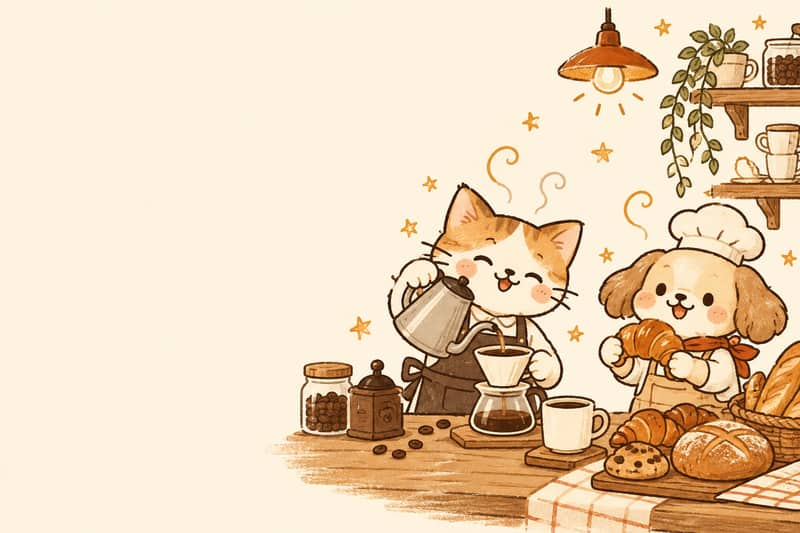
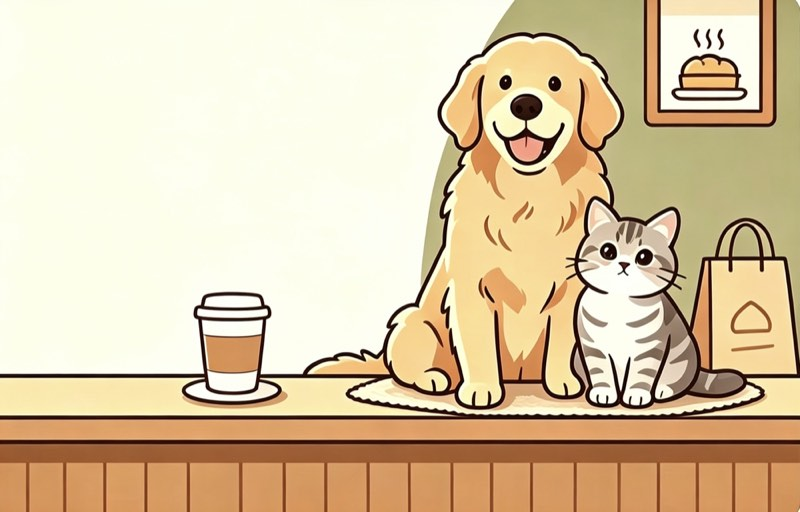
更新小程序店铺首页、联系二维码和会员入口插画

diff --git a/miniprogram/pages/shop/index.js b/miniprogram/pages/shop/index.js
@@ -22,7 +22,7 @@ const order=o=>({...o,deliveryTimeline:orderDisplay.timeline(o).map(e=>({...e,ti
 function reconcileCart(lines,products){return lines.map(line=>{const p=products.find(p=>p.id===line.productId),sku=p&&p.skus.find(s=>s.id===line.skuId);const unavailable=!p||p.active===false||!sku;const invalid=unavailable?'商品已下架或规格已失效':!Number.isInteger(line.qty)||line.qty<1||line.qty>99?'请选择1～99件':sku.stock<line.qty?'库存不足，当前可售 '+sku.stock+' 件':'';return {...line,...(sku?{name:p.name,spec:sku.name,price:sku.price,image:p.image}:{}),invalid};});}
 Page({
  feedbackEpoch:0,
- data:{membershipVisible:false,member:null,boundPhone:'',phonePrompt:false,pendingPurchase:'',pickupSlotIndex:0,pickupSlots:[],pickupLabels:[],pickupDates:['尽快取餐'],pickupTimes:['按备餐时间'],pickupRange:[['尽快取餐'],['按备餐时间']],pickupColumnIndex:[0,0],pickupLabel:'尽快取餐',shopSection:"coffee",checkoutPickupOnly:false,catalogLoading:false,catalogLoaded:false,feedbackVisible:false,feedback:null,feedbackAnswers:[],feedbackSubmitted:false,feedbackLoading:false,feedbackError:'',simulationNotes:api.mode==='cloud'?['当前连接云端店铺，微信支付可能产生真实扣款，请在确认前核对商品和金额。','退款按订单原付款方式处理；支付失败时请先查看订单状态，避免重复付款。','地址和联系电话用于订单履约；查询快递时，服务端会向物流服务商提供运单号及校验所需收件手机号。']:studio.simulationNotes,dataNoticeOpen:false,shopSettings:null,storeGuide:null,pickupEnabled:false,deliveryEnabled:false,canOrder:false,shopNotice:'正在读取门店设置',supportVisible:false,supportSection:'',support:{phone:'',hours:'',name:'联系商家'},orderQuickOptions:[{id:'ALL',name:'全部'},{id:'PENDING',name:'待付款'},{id:'PAID',name:'备货中'},{id:'SHIPPED',name:'配送中'},{id:'COMPLETED',name:'已完成'},{id:'AFTERSALE',name:'售后'}],checkoutSource:'cart',quickLines:[],checkoutLines:[],selectedCount:0,allSelected:false,selectedAddress:null,sort:'default',sortOptions:['默认排序','价格从低到高','价格从高到低'],sortIndex:0,stockOnly:false,loadError:'',addressReturn:'account',addressIndex:0,cartCount:0,checkoutTotal:'0.00',shippingEstimate:'8.00',cartInvalid:false,loginRequired:false,loginForm:{username:'',password:''},deliveryMode:'DELIVERY',pickupContact:{name:'',phone:''},pickupStore:studio.pickupStore,addressEditing:false,fulfillmentFilter:'ALL',fulfillmentOptions:[{id:'ALL',name:'全部订单'},{id:'PICKUP',name:'到店自提'},{id:'DELIVERY',name:'快递配送'}],redeemCode:'',afterForm:{},receiptItems:[],afterTypes:['退货退款','仅退款'],orderQuery:'',orderStatus:'ALL',orderPageNumber:1,orderPages:1,orderTotal:0,orderStatusOptions:[{id:'ALL',name:'全部状态'},...Object.entries(labels).map(([id,name])=>({id,name})),{id:'AFTERSALE',name:'全部售后'}],orderStatusIndex:0,pet:'全部',petOptions:['全部','猫咪','狗狗'],productPets:studio.pets,homeContent:studio.homeDefaults,homeEditor:null,homeFields:[{key:'headline',label:'首页大标题',max:24},{key:'subtitle',label:'首页副标题',max:40},{key:'featuredTitle',label:'精选栏目标题',max:18},{key:'featuredIntro',label:'精选栏目说明',max:60},{key:'newTitle',label:'上新栏目标题',max:18}],assets:studio.assets,templates:studio.templates,storeSlots:studio.slots,storefront:studio.defaults,imageTarget:'',storeEditor:null,mode:api.mode,tab:'catalog',categories:['全部','咖啡','烘焙'],productCategories:['咖啡','烘焙',...categories.slice(1)],category:'全部',search:'',products:[],cart:[],addresses:[],orders:[],merchant:false,busy:false,addressForm:{},editor:null,shipment:{number:'',note:''}},
+ data:{contactVisible:false,membershipVisible:false,member:null,boundPhone:'',phonePrompt:false,pendingPurchase:'',pickupSlotIndex:0,pickupSlots:[],pickupLabels:[],pickupDates:['尽快取餐'],pickupTimes:['按备餐时间'],pickupRange:[['尽快取餐'],['按备餐时间']],pickupColumnIndex:[0,0],pickupLabel:'尽快取餐',shopSection:"coffee",checkoutPickupOnly:false,catalogLoading:false,catalogLoaded:false,feedbackVisible:false,feedback:null,feedbackAnswers:[],feedbackSubmitted:false,feedbackLoading:false,feedbackError:'',simulationNotes:api.mode==='cloud'?['当前连接云端店铺，微信支付可能产生真实扣款，请在确认前核对商品和金额。','退款按订单原付款方式处理；支付失败时请先查看订单状态，避免重复付款。','地址和联系电话用于订单履约；查询快递时，服务端会向物流服务商提供运单号及校验所需收件手机号。']:studio.simulationNotes,dataNoticeOpen:false,shopSettings:null,storeGuide:null,pickupEnabled:false,deliveryEnabled:false,canOrder:false,shopNotice:'正在读取门店设置',supportVisible:false,supportSection:'',support:{phone:'',hours:'',name:'联系商家'},orderQuickOptions:[{id:'ALL',name:'全部'},{id:'PENDING',name:'待付款'},{id:'PAID',name:'备货中'},{id:'SHIPPED',name:'配送中'},{id:'COMPLETED',name:'已完成'},{id:'AFTERSALE',name:'售后'}],checkoutSource:'cart',quickLines:[],checkoutLines:[],selectedCount:0,allSelected:false,selectedAddress:null,sort:'default',sortOptions:['默认排序','价格从低到高','价格从高到低'],sortIndex:0,stockOnly:false,loadError:'',addressReturn:'account',addressIndex:0,cartCount:0,checkoutTotal:'0.00',shippingEstimate:'8.00',cartInvalid:false,loginRequired:false,loginForm:{username:'',password:''},deliveryMode:'DELIVERY',pickupContact:{name:'',phone:''},pickupStore:studio.pickupStore,addressEditing:false,fulfillmentFilter:'ALL',fulfillmentOptions:[{id:'ALL',name:'全部订单'},{id:'PICKUP',name:'到店自提'},{id:'DELIVERY',name:'快递配送'}],redeemCode:'',afterForm:{},receiptItems:[],afterTypes:['退货退款','仅退款'],orderQuery:'',orderStatus:'ALL',orderPageNumber:1,orderPages:1,orderTotal:0,orderStatusOptions:[{id:'ALL',name:'全部状态'},...Object.entries(labels).map(([id,name])=>({id,name})),{id:'AFTERSALE',name:'全部售后'}],orderStatusIndex:0,pet:'全部',petOptions:['全部','猫咪','狗狗'],productPets:studio.pets,homeContent:studio.homeDefaults,homeEditor:null,homeFields:[{key:'headline',label:'首页大标题',max:24},{key:'subtitle',label:'首页副标题',max:40},{key:'featuredTitle',label:'精选栏目标题',max:18},{key:'featuredIntro',label:'精选栏目说明',max:60},{key:'newTitle',label:'上新栏目标题',max:18}],assets:studio.assets,templates:studio.templates,storeSlots:studio.slots,storefront:studio.defaults,imageTarget:'',storeEditor:null,mode:api.mode,tab:'catalog',categories:['全部','咖啡','烘焙'],productCategories:['咖啡','烘焙',...categories.slice(1)],category:'全部',search:'',products:[],cart:[],addresses:[],orders:[],merchant:false,busy:false,addressForm:{},editor:null,shipment:{number:'',note:''}},
  backOrders(){this.navigate({tab:'account',selectedOrder:null});},
  toggleDataNotice(){this.setData({dataNoticeOpen:!this.data.dataNoticeOpen});},
  navigate(values){this.setData(values,()=>wx.pageScrollTo({scrollTop:0,duration:0}));},
@@ -112,6 +112,8 @@ Page({
  rememberPickupContact(o){if(o.fulfillment?.type!=='PICKUP')return;try{const scope='pet-pickup-contact-v1:'+api.checkoutScope();wx.setStorageSync(scope,{name:o.address.name,phone:o.address.phone});}catch{}},
  pickupColumn(e){if(Number(e.detail.column)!==0)return;const groups=slotGroups(this.data.pickupSlots);const dateIndex=Number(e.detail.value);const times=groups[dateIndex]?.times||[];this.setData({pickupTimes:times,pickupRange:[this.data.pickupDates,times],pickupColumnIndex:[dateIndex,0]});},
  pickupTime(e){const value=(e.detail.value||[0,0]).map(Number);const groups=slotGroups(this.data.pickupSlots);const slot=groups[value[0]]?.slots[value[1]];this.setData(pickupState(this.data.pickupSlots,slot?.at??null));this.checkoutKey=null;},
+ openContact(){this.setData({contactVisible:true});},
+ closeContact(){this.setData({contactVisible:false});},
  openMembership(){this.run(async()=>{const m=await api.call('membership');const tiers=(m.tiers||m.amounts.map(pay=>({pay,credit:pay}))).map(t=>({amount:t.pay,credit:t.credit,text:money(t.pay),creditText:money(t.credit),bonus:t.credit>t.pay}));this.setData({member:{...m,balanceText:money(m.balance),tiers,entries:m.entries.map(e=>({...e,amountText:(e.amount>0?'+':'')+money(e.amount),timeText:formatTime(e.at)}))},membershipVisible:true});});},
  closeMembership(){this.setData({membershipVisible:false});},
  recharge(e){this.run(async()=>{const amount=Number(e.currentTarget.dataset.amount);const tier=this.data.member.tiers.find(t=>t.amount===amount);const offer=tier?.bonus?'，到账 ¥'+tier.creditText:'';if(!await this.confirm('会员充值','支付 ¥'+money(amount)+offer+'，微信付款确认后计入本店余额。'+this.data.member.terms))return;const scope=api.checkoutScope()+':recharge';let pending=wx.getStorageSync(scope);if(!pending||pending.amount!==amount){pending={key:'recharge-'+Date.now()+'-'+Math.random().toString(36).slice(2),amount};wx.setStorageSync(scope,pending);}const result=await api.call('createRecharge',pending);wx.removeStorageSync(scope);this.setData({membershipVisible:false,selectedOrder:order(result)});});},
